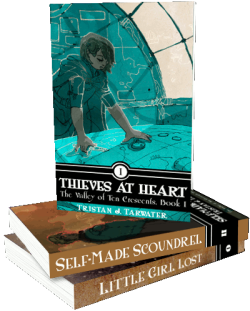
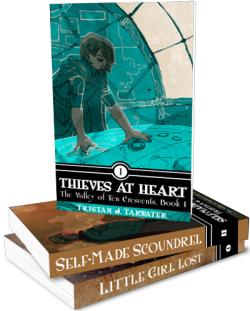
update 3d-stack image, robots.txt, and make sitemap igore some pages

diff --git a/newsletter/fbsignup/post/index.html b/newsletter/fbsignup/post/index.html
@@ -2,6 +2,8 @@
 layout: stripped
 title: post
 fbpixel: true
+sitemap:
+  exclude: 'yes'
 ---
 <div class="row newsletter-wrap">
   <div class="small-12 medium-offset-2 medium-8 columns newsletter">

diff --git a/newsletter/post/index.html b/newsletter/post/index.html
@@ -1,6 +1,8 @@
 ---
 layout: stripped
 title: post
+sitemap:
+  exclude: 'yes'
 ---
 <div class="row newsletter-wrap">
   <div class="small-12 medium-offset-2 medium-8 columns newsletter">

diff --git a/free-books/index.html b/free-books/index.html
@@ -1,6 +1,8 @@
 ---
 layout: stripped
 title: free-books
+sitemap:
+  exclude: 'yes'
 ---
 
 <div class="row newsletter-wrap">

diff --git a/newsletter/fbsignup/index.html b/newsletter/fbsignup/index.html
@@ -1,6 +1,8 @@
 ---
 layout: stripped
 title: fbsignup
+sitemap:
+  exclude: 'yes'
 ---
 
 <div class="row newsletter-wrap">
